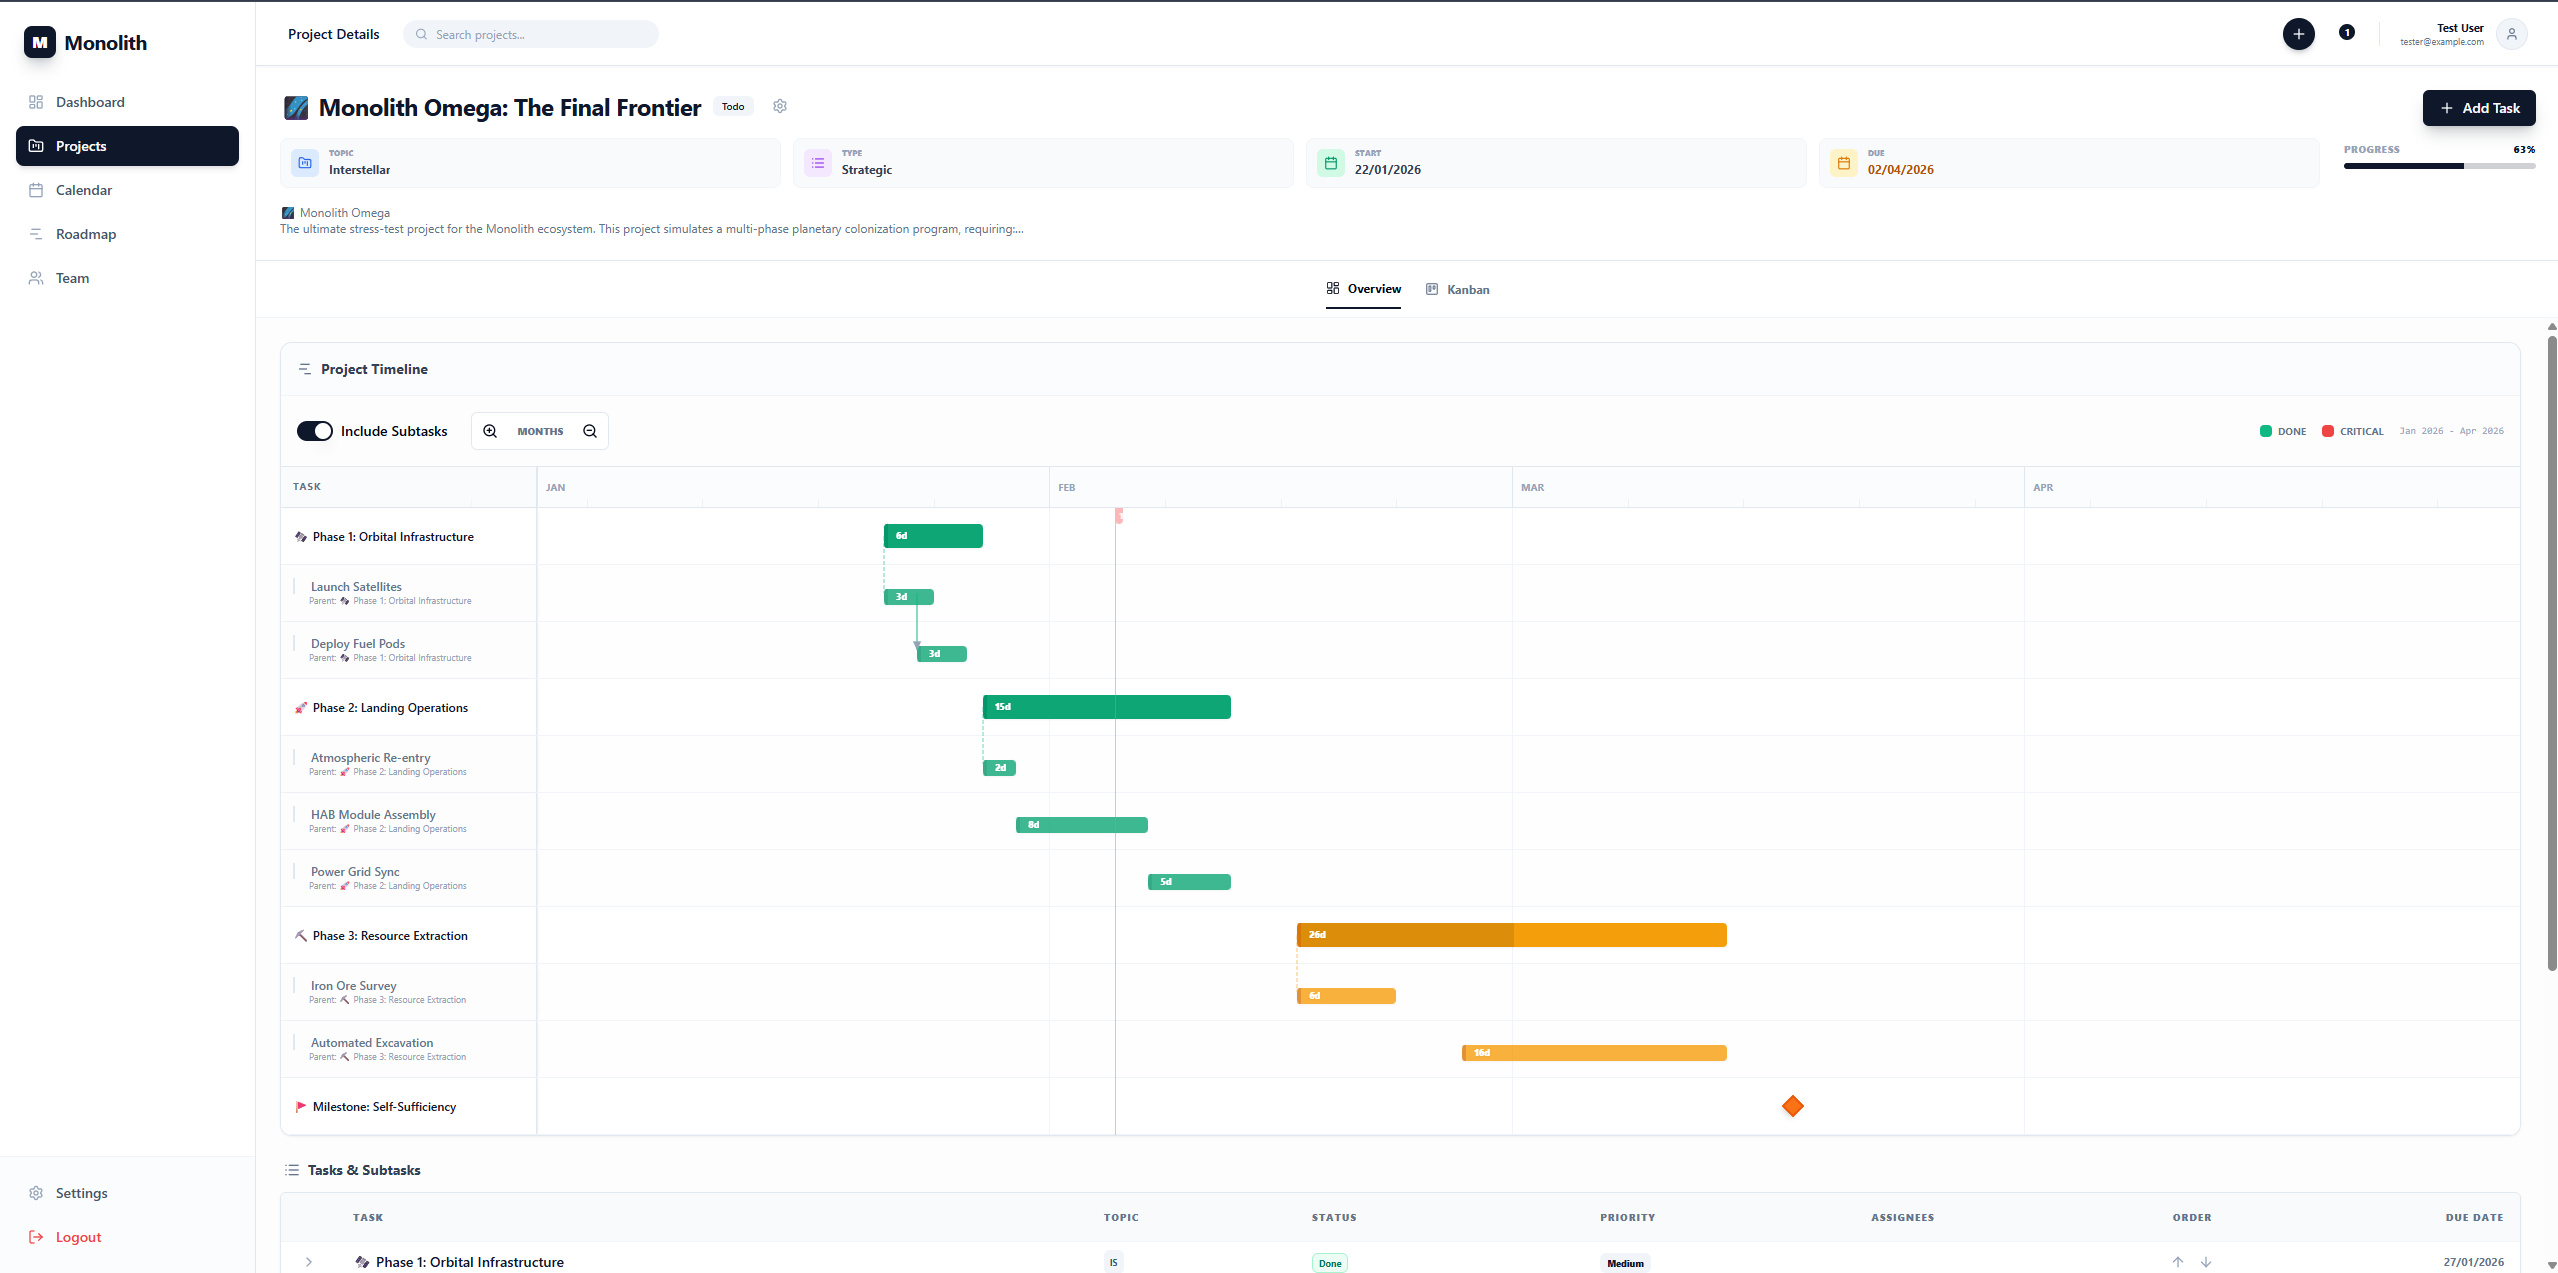
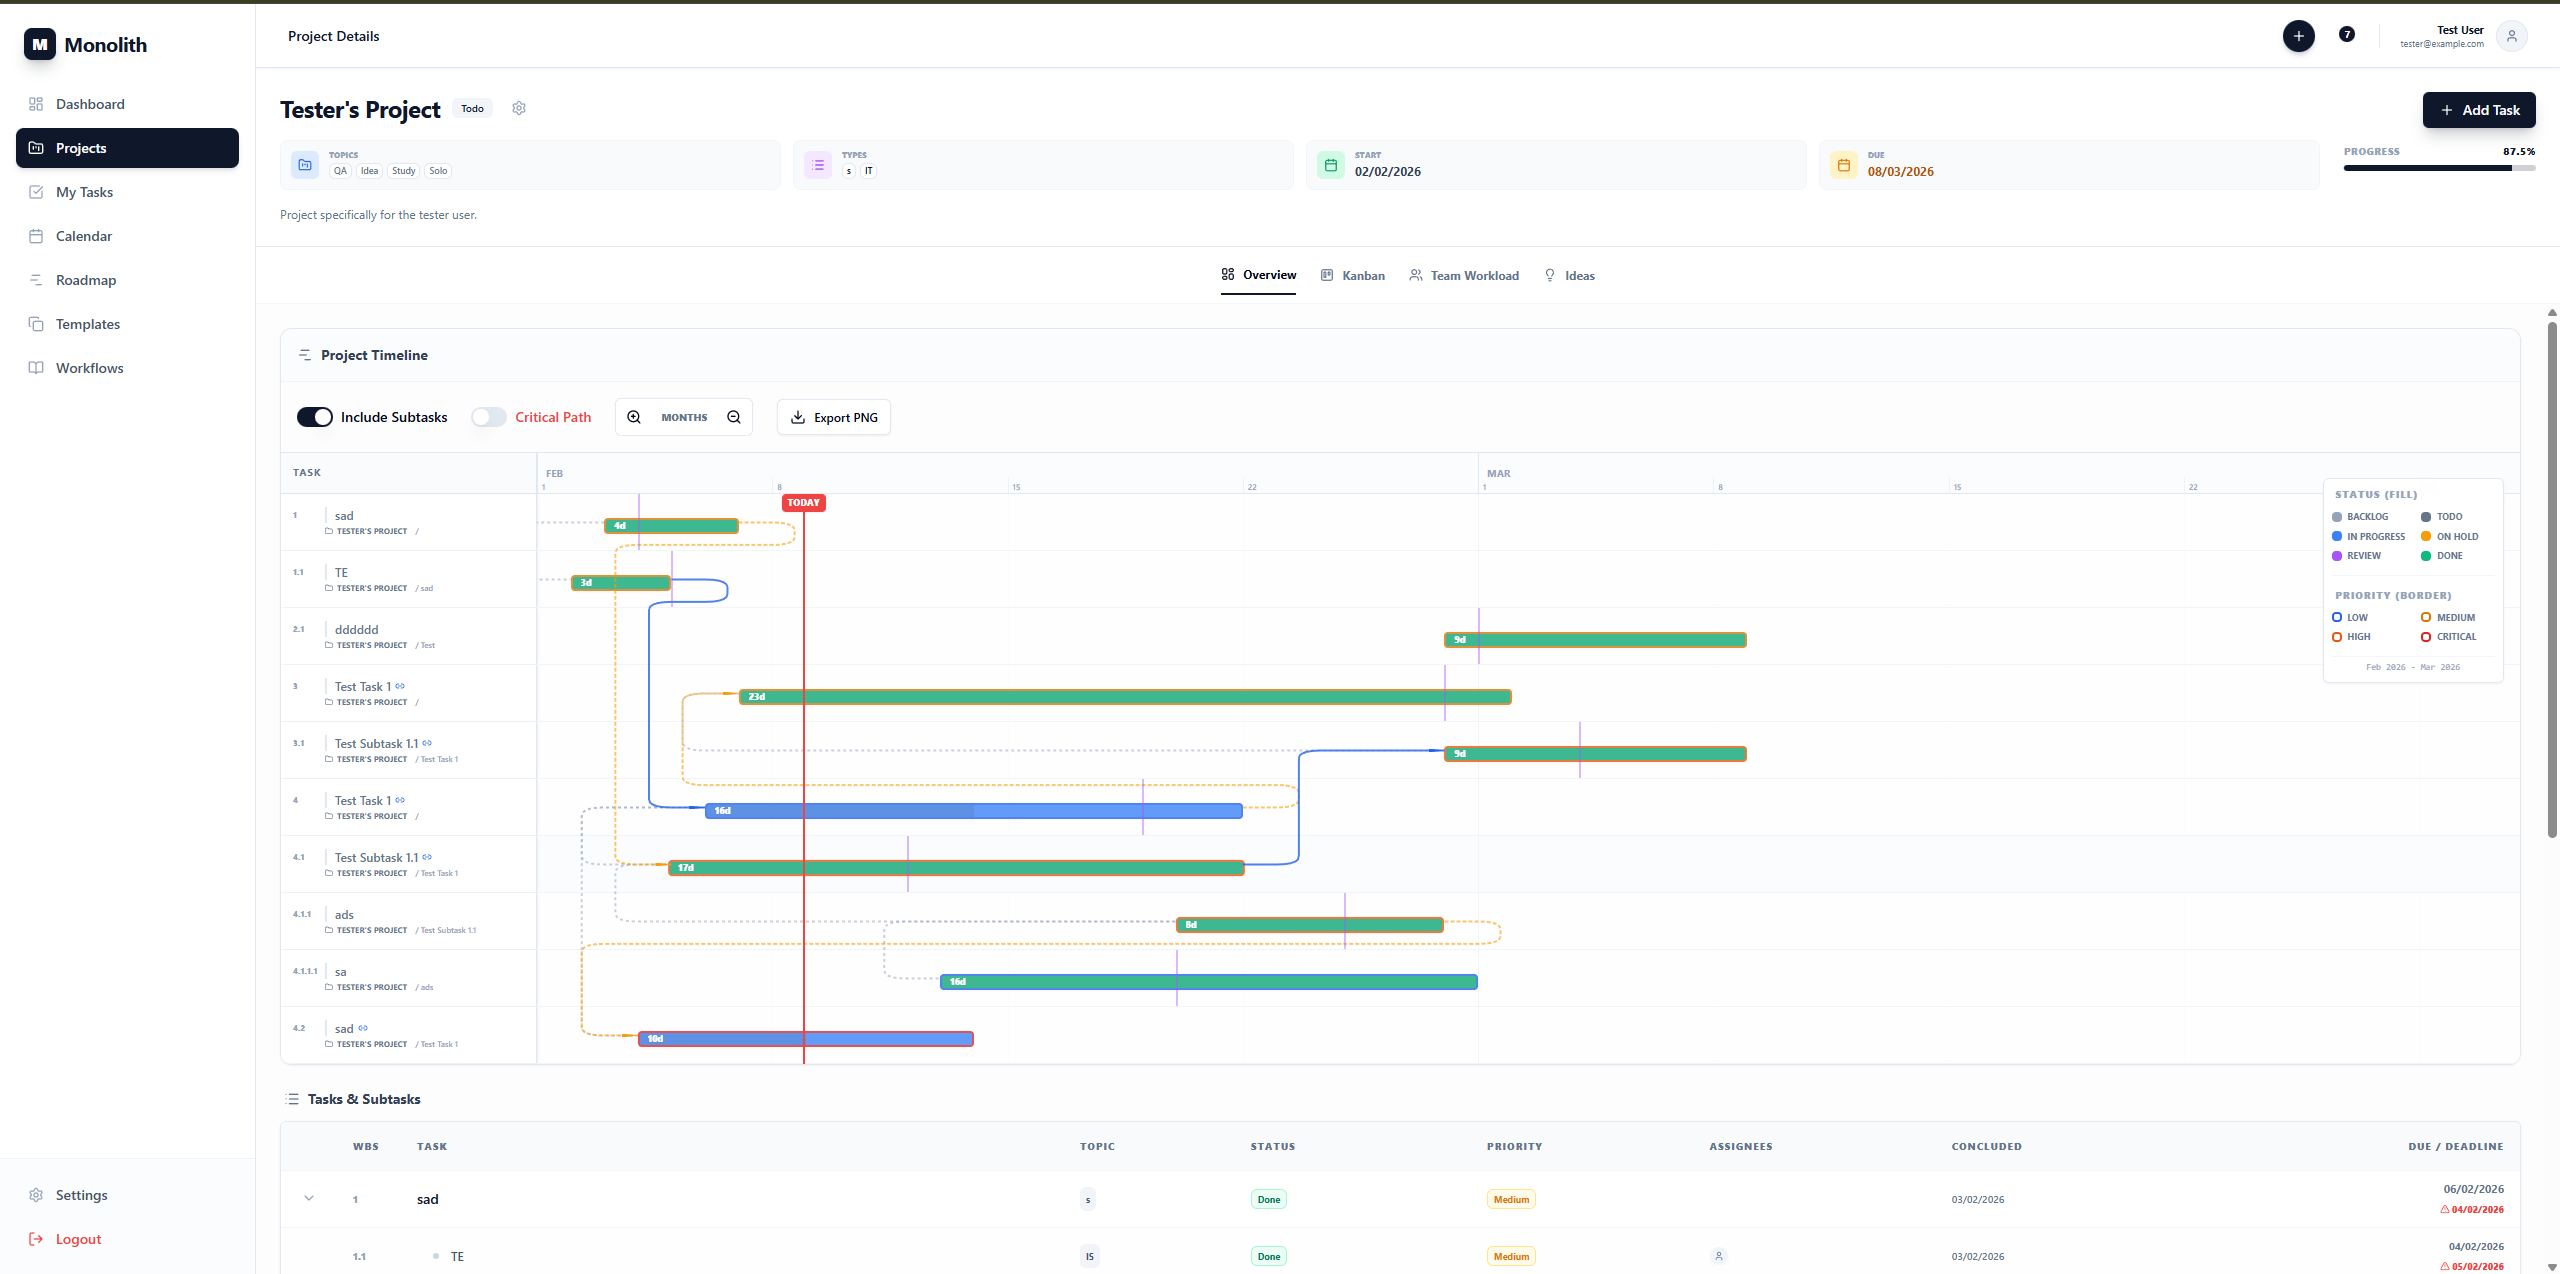
docs: comprehensive update for v2.0.0 (Reporting, Workflows, Teams, Exports)

diff --git a/README.md b/README.md
@@ -15,21 +15,24 @@
 - **🎯 Strict Hierarchy:** Maintain absolute clarity with a 3-level structure. Subtask completion automatically drives Task progress, which in turn updates Project completion metrics.
 - **📊 High-Density Visualizations:**
     - **Advanced Gantt:** Orthogonal stepped lines, dependency Z-shapes, and multi-level zoom (Day to Year).
-    - **Smart Kanban:** Automatically switches between Tasks and Subtasks based on hierarchy depth.
+    - **Smart Kanban:** Full status parity (Backlog to Done) with precise drag-and-drop reordering and a 5-task column limit.
     - **Activity Heatmap:** GitHub-style contribution tracking (Last 12 months rolling).
+- **🤝 Decentralized Management:** Every user can create and manage their own teams, fostering organic collaboration.
+- **📖 Workflow Library:** A user-managed repository for Standard Operating Procedures (SOPs) with full Markdown support.
+- **📥 Data Portability:** High-DPI Gantt PNGs, Project CSV, and Excel (.xlsx) exports for comprehensive reporting.
 - **🤖 AI-Ready (MCP):** Integrated **Model Context Protocol** server allows AI agents to autonomously manage your projects, tasks, and subtasks.
 - **⚡ Technical Excellence:**
     - Manual sorting with `sort_index` (Up/Down).
-    - Recursive dependency tracking.
-    - Markdown support for descriptions.
+    - Recursive dependency tracking and status propagation.
+    - Automated weekly email summaries for users, team owners, and project owners.
     - Fully Dockerized (Nginx, FastAPI, React, Postgres).
 
 ---
 
 ## 🛠 Tech Stack
 
-- **Frontend:** React 19, TypeScript, Tailwind CSS, Shadcn/UI, Lucide Icons.
-- **Backend:** FastAPI, SQLAlchemy (Async), PostgreSQL.
+- **Frontend:** React 19, TypeScript, Tailwind CSS, Shadcn/UI, Lucide Icons, TanStack Query.
+- **Backend:** FastAPI, SQLAlchemy (Async), PostgreSQL, Pandas (for exports).
 - **Infrastructure:** Docker & Docker Compose, Nginx.
 - **AI Integration:** Model Context Protocol (MCP).
 

diff --git a/CHANGELOG.md b/CHANGELOG.md
@@ -2,6 +2,26 @@
 
 All notable changes to this project will be documented in this file.
 
+## [2.0.0] - 2026-02-08
+
+### Added
+- **Decentralized Team Management**: Standard users can now create and manage their own teams, assigning members from the organization.
+- **Workflow Library (SOPs)**: A full-featured repository for Standard Operating Procedures with Markdown support, search, and decentralized ownership.
+- **Automated Weekly Summaries**: Implemented a backend reporting engine that sends personalized project and team health summaries to users via email every week.
+- **Advanced Project Exports**: Added support for exporting project task lists to **CSV** and **Excel (.xlsx)** formats.
+- **High-DPI Gantt Export**: Improved Gantt PNG export resolution to **3x scale** for professional-grade imaging.
+- **Task Duration Tracking**: Added a "Days" column to the project task list, showing the inclusive duration between start and due dates.
+- **Full Kanban Parity**: Added missing "Backlog" and "On hold" columns to the Kanban board.
+- **Precise Kanban Reordering**: Implemented `sort_index` persistence for stable reordering and cross-column moves.
+- **Weighted Progress Logic**: Refined project completion calculation to weight statuses accurately (Done: 100%, Review: 80%, In Progress: 50%, On Hold: 25%).
+- **Dashboard Breakdown**: Added a detailed "Task Status Breakdown" section to the main dashboard with percentage distributions.
+
+### Fixed
+- **Registration Auth Bug**: Resolved an issue where standard user registration incorrectly returned `401 Unauthorized`.
+- **Gantt Download directory**: Fixed PNG export logic to ensure files are handled as browser downloads rather than server-side savings.
+- **Project Metadata Integrity**: Fixed a `TypeError` in project creation when assigning multiple topics or work types.
+- **Percentage Formatting**: Standardized all UI and API percentages to show a maximum of two decimal places.
+
 ## [1.5.1] - 2026-02-07
 
 ### Added

diff --git a/docs/explanation/architecture.md b/docs/explanation/architecture.md
@@ -15,13 +15,14 @@ Monolith is designed as a modular suite of services orchestrated via Docker.
 
 ### 3. Backend (FastAPI)
 - **Role:** Application logic & Data persistence.
-- **Tech:** Python 3.12, SQLAlchemy (Async), PostgreSQL.
-- **Key Logic:** Status propagation triggers, recursive dependency validation, JWT security, and dynamic metadata management.
+- **Tech:** Python 3.12, SQLAlchemy (Async), PostgreSQL, Pandas.
+- **Key Logic:** Status propagation triggers, recursive dependency validation, JWT security, automated weekly email summaries, and project data exportation (CSV/XLSX).
 
-### 4. Admin & Security
-- **Role:** System configuration and user oversight.
-- **Function:** Admins can manage global "Topics" and "Work Types" via a dedicated interface. Sensitive pages like Team Management and Metadata Settings are restricted to superusers.
-- **Password Safety:** Implements direct bcrypt hashing and provides admin-triggered password reset flows.
+### 4. User Roles & Collaboration
+- **Project Members:** Granular access control at the project level.
+- **Decentralized Teams:** Users can form their own teams for activity tracking and collaboration.
+- **Admin Oversight:** Global configuration of "Topics" and "Work Types" via a dedicated interface. Restricted management of all users and teams.
+- **Security:** Implements bcrypt hashing and admin-triggered password reset flows. Implements optional OAuth2 schemes for standard user registration.
 
 ### 5. MCP Server (Model Context Protocol)
 - **Role:** AI Interface.

diff --git a/docs/tutorials/getting-started.md b/docs/tutorials/getting-started.md
@@ -48,6 +48,22 @@ Templates allow you to pre-define entire project structures.
 3. Click on a task to open the Edit Dialog.
 4. Use the **Subtask Manager** within the dialog to add granular steps (e.g., "Procure Titanium", "Weld Joints").
 
-## 7. Track Progress
-- Switch to the **Kanban** tab to drag items across columns.
-- Return to **Overview** to see how subtask completions automatically drive the progress bars and activity heatmap.
+## 7. Collaborate with Teams
+Every user can form their own teams:
+1. Navigate to **Teams** in the sidebar.
+2. Click **"Create Team"** and give it a name.
+3. Assign members from the list of registered users.
+4. As an owner, you'll receive weekly activity reports for your team.
+
+## 8. Document Workflows
+Standardize your team's knowledge:
+1. Navigate to **Workflows** in the sidebar.
+2. Search for existing SOPs or click **"Create SOP"**.
+3. Use the Markdown editor to draft procedures.
+4. View procedures in a clean, readable format.
+
+## 9. Track & Export Progress
+- **Kanban:** Drag tasks to update status and priority.
+- **Reporting:** Check your email every Monday for an automated weekly summary of your tasks and projects.
+- **Exporting:** Use the **CSV** or **Excel** buttons in the Project Header to download your project data for external use.
+- **Gantt:** Use **"Export PNG"** to save a high-DPI visualization of your timeline.

diff --git a/docs/explanation/hierarchy-logic.md b/docs/explanation/hierarchy-logic.md
@@ -17,10 +17,15 @@ To prevent manual work, Monolith automatically calculates progress based on the 
 - If a task has no subtasks, its status is managed manually.
 
 ### Task to Project
-The Project's `progress_percent` is calculated by the completion status of its Tasks:
+The Project's `progress_percent` is calculated by the weighted completion status of its top-level Tasks:
 - **Done:** 100% contribution.
-- **In Progress / Review:** 50% contribution.
+- **Review:** 80% contribution.
+- **In Progress:** 50% contribution.
+- **On Hold:** 25% contribution.
 - **Todo / Backlog:** 0% contribution.
+
+## Kanban Board Dynamics
+The Kanban board provides a synchronized view of this hierarchy. Moving a task between status columns (e.g., from "In Progress" to "Review") automatically updates its `status` and `sort_index` in the database, which in turn triggers the recursive status propagation logic described above. Each column is limited to 5 visible tasks to maintain visual performance.
 
 ## Dependency Resolution
 Monolith implements **Recursive Dependency Checking**. If Task B depends on Task A:

diff --git a/docs/how-to/admin-guide.md b/docs/how-to/admin-guide.md
@@ -29,7 +29,11 @@ Topics are high-level category labels (e.g., "Backend", "Design").
 Work Types define the nature of the task (e.g., "Feature", "Bug", "Epic").
 - These are selectable in both Project and Task creation forms.
 
-## 4. Troubleshooting Login
+## 4. Automated Reporting
+Admins can oversee the automated reporting infrastructure.
+- **Trigger Summaries:** If needed, admins can manually trigger the generation of weekly email summaries for all users. This is useful for immediate synchronization or testing. Currently, this action is performed via the API backend or a future admin utility button.
+
+## 5. Troubleshooting Login
 If a user cannot log in:
 1. Ensure their password is at least **6 characters** long.
 2. If they have forgotten their password, use the **Reset Password** tool in the Team page.
